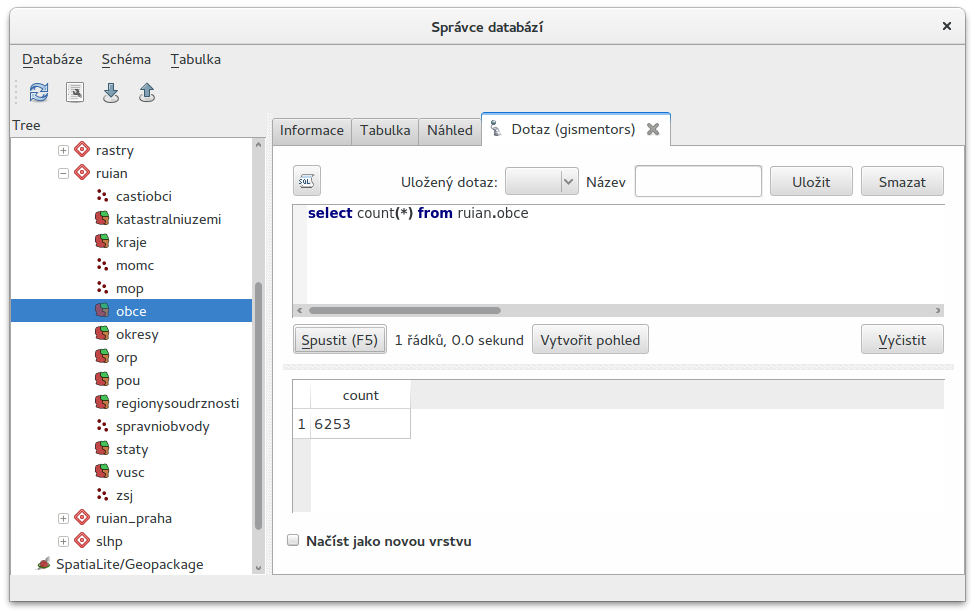
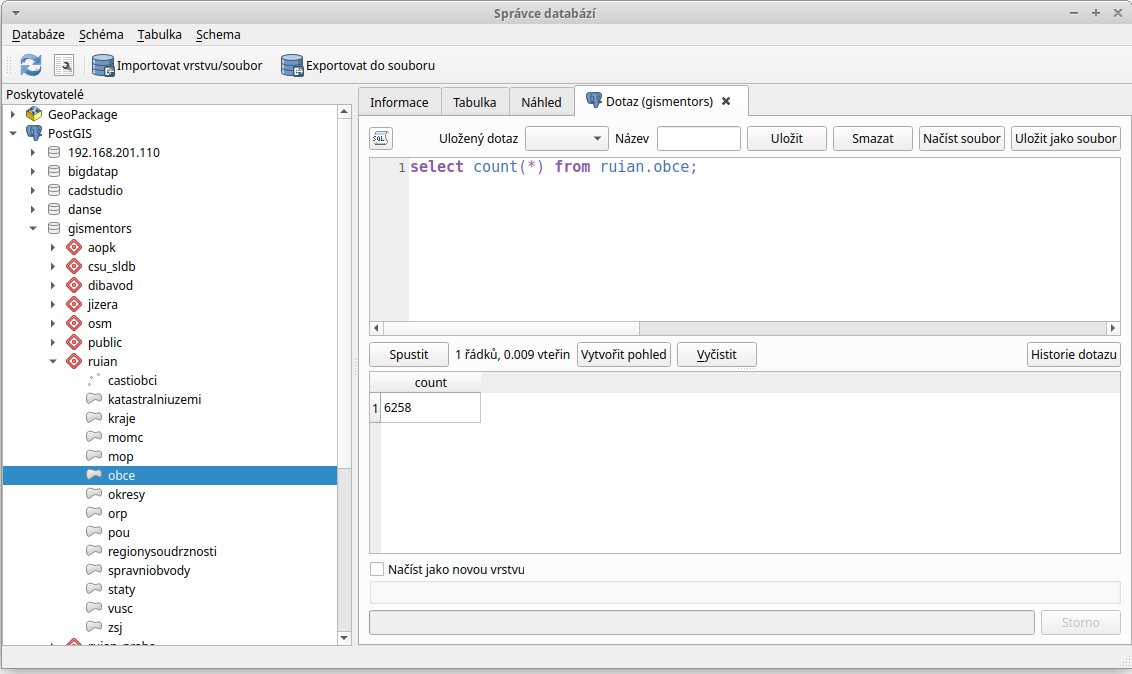
Upgrade db editor 2

Changed region(s): [[0.0, 0.0, 1.0, 1.0]]

diff --git a/kapitoly/4_prostorove_dotazy.rst b/kapitoly/4_prostorove_dotazy.rst
@@ -106,7 +106,7 @@ jako novou vrstvu :map:`obce_pozarni_stanice` :fignote:`(2)`.
              CREATE SCHEMA uzivatel;
              
              CREATE VIEW uzivatel.obce_pozarni_stanice AS
-             SELECT o.* FROM ruian.obce_polygon AS o WHERE EXISTS
+             SELECT o.* FROM ruian.obce AS o WHERE EXISTS
              (
               SELECT 1 FROM osm.pozarni_stanice AS p WHERE ST_Within(p.geom, o.geom)
              );
